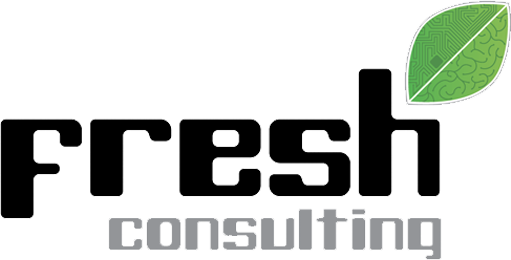
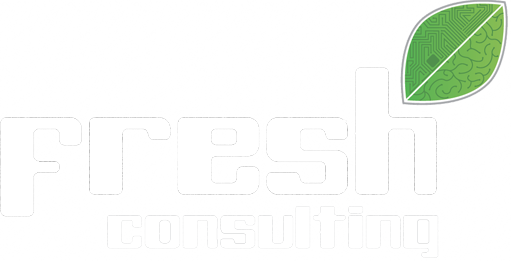
Portfolio reordered

Changed region(s): [[0.0, 0.0, 1.0, 0.8615], [0.2055, 0.8, 0.8806, 1.0]]

diff --git a/src/app/components/portfolio/portfolio.html b/src/app/components/portfolio/portfolio.html
@@ -1,4 +1,35 @@
 <div class="page-wrapper portfolio">
+<section class="nda-projects pad-bottom-40">
+  <div class="container">
+  <div class="row text-center">
+    <h3 class="text-center">NDA PROJECTS</h3>
+  </div>
+  <div class="row text-center">
+    <ul class="more-projects text-small">
+      <li class="col-md-3 col-sm-6">
+        <img src="app/main/assets/img/fresh.png" alt="Google">
+        <p class="text-medium">Responsive Web Design - 3 clients (2015)</p>
+        <!-- <p>Conducted Usability Studies on Google Cloud Platform as part of a sponsored project during my Masters program</p> -->
+      </li>
+      <li class="col-md-3 col-sm-6">
+        <img src="app/main/assets/img/virginmedia.png" alt="Virgin Media">
+        <p class="text-medium">Responsive Web Design (2014)</p>
+        <!-- <p>Led a UX Design and Front-end Development project for Virgin Media, a client of Tata Consultancy Services</p> -->
+      </li>
+      <li class="col-md-3 col-sm-6">
+        <img src="app/main/assets/img/citi.png" alt="Citi">
+        <p class="text-medium">Front-end Development (2013)</p>
+        <!-- <p>Worked for Citi on their global tablet application as an employee of Tata Consultancy Services</p> -->
+      </li>
+      <li class="col-md-3 col-sm-6">
+        <img src="app/main/assets/img/tcs.png" alt="Tata Consultancy Services">
+        <p class="text-medium">Interaction Design & Prototyping (2012)</p>
+        <!-- <p>Worked on an innovative product for companies in the Banking & Financial Services domain</p> -->
+      </li>
+    </ul>
+  </div>
+  </div>
+</section>
 <section>
 <ul id="projects">
   <li id="crm" parallax-background parallax-ratio="-0.6">
@@ -70,7 +101,7 @@
       </div>  
     </div>
   </li>
-  <li id="milan" parallax-background parallax-ratio="-0.6">
+  <!-- <li id="milan" parallax-background parallax-ratio="-0.6">
     <a href="#/portfolio/milan" class="inv-overlay"></a>
     <div class="details container">
       <div class="row">
@@ -84,7 +115,7 @@
         </div>
       </div>  
     </div>
-  </li>
+  </li> -->
   <li id="fun-stuff" parallax-background parallax-ratio="-0.6">
     <a href="#/portfolio/recall" class="inv-overlay"></a>
     
@@ -120,34 +151,5 @@
   </li>
 </ul>
 </section>
-<section class="container">
-  <div class="row text-center">
-    <h4 class="text-center text-primary">PAST NDA PROJECTS</h4>
-    <p class="text-small pad-bottom-40">Sorry, can't talk about these projects on my portfolio</p>
-  </div>
-  <div class="row text-center">
-    <ul class="more-projects">
-      <li class="col-md-3 col-sm-6">
-        <img src="app/main/assets/img/google.png" alt="Google">
-        <p class="text-medium">Usability Evaluation (2015)</p>
-        <p>Conducted Usability Studies on Google Cloud Platform as part of a sponsored project during my Masters program</p>
-      </li>
-      <li class="col-md-3 col-sm-6">
-        <img src="app/main/assets/img/virginmedia.png" alt="Virgin Media">
-        <p class="text-medium">Responsive Web Design (2014)</p>
-        <p>Led a UX Design and Front-end Development project for Virgin Media, a client of Tata Consultancy Services</p>
-      </li>
-      <li class="col-md-3 col-sm-6">
-        <img src="app/main/assets/img/citi.png" alt="Citi">
-        <p class="text-medium">Front-end Development (2013)</p>
-        <p>Worked for Citi on their global tablet application as an employee of Tata Consultancy Services</p>
-      </li>
-      <li class="col-md-3 col-sm-6">
-        <img src="app/main/assets/img/tcs.png" alt="Tata Consultancy Services">
-        <p class="text-medium">Interaction Design & Prototyping (2012)</p>
-        <p>Worked on an innovative product for companies in the Banking & Financial Services domain</p>
-      </li>
-    </ul>
-  </div>
-</section>
+
 </div>

diff --git a/src/app/components/portfolio/portfolio.scss b/src/app/components/portfolio/portfolio.scss
@@ -29,6 +29,11 @@
 	#chatify img {
 		max-height: 600px;
 	}
+	.nda-projects {
+		background-color: #000;
+		color: $white;
+		border-bottom: 4px solid #FFFFFF;
+	}
 }
 @media (min-width: 768px) {
 	
